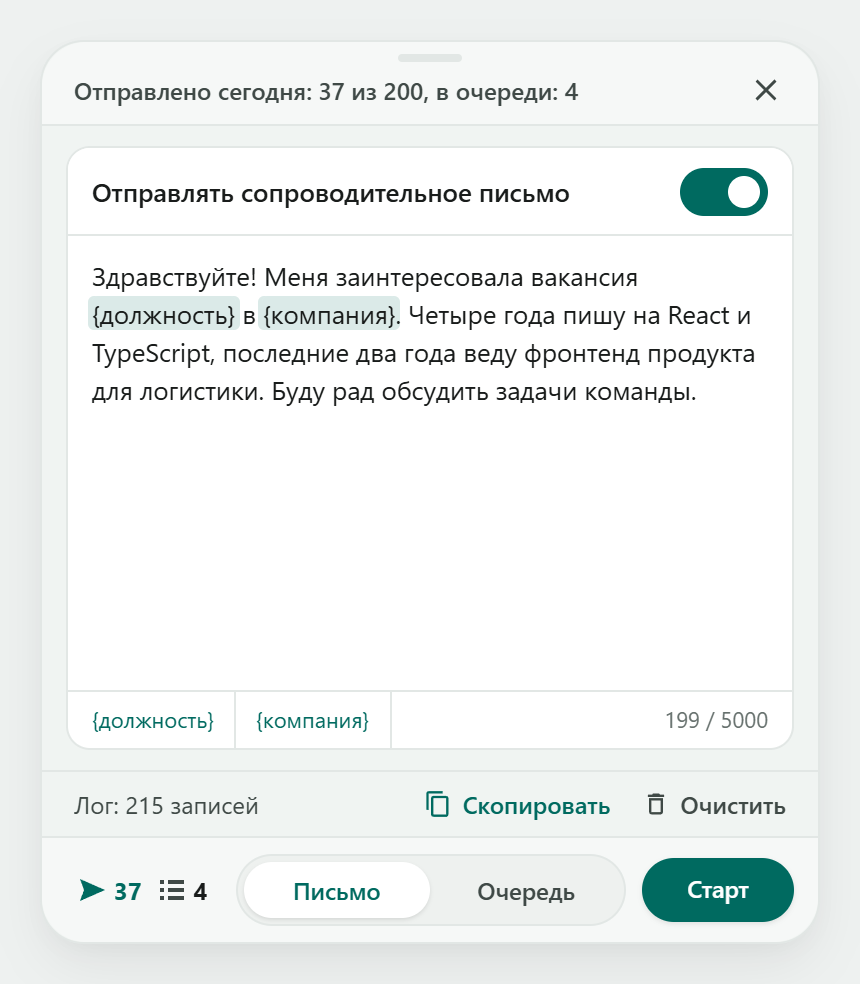
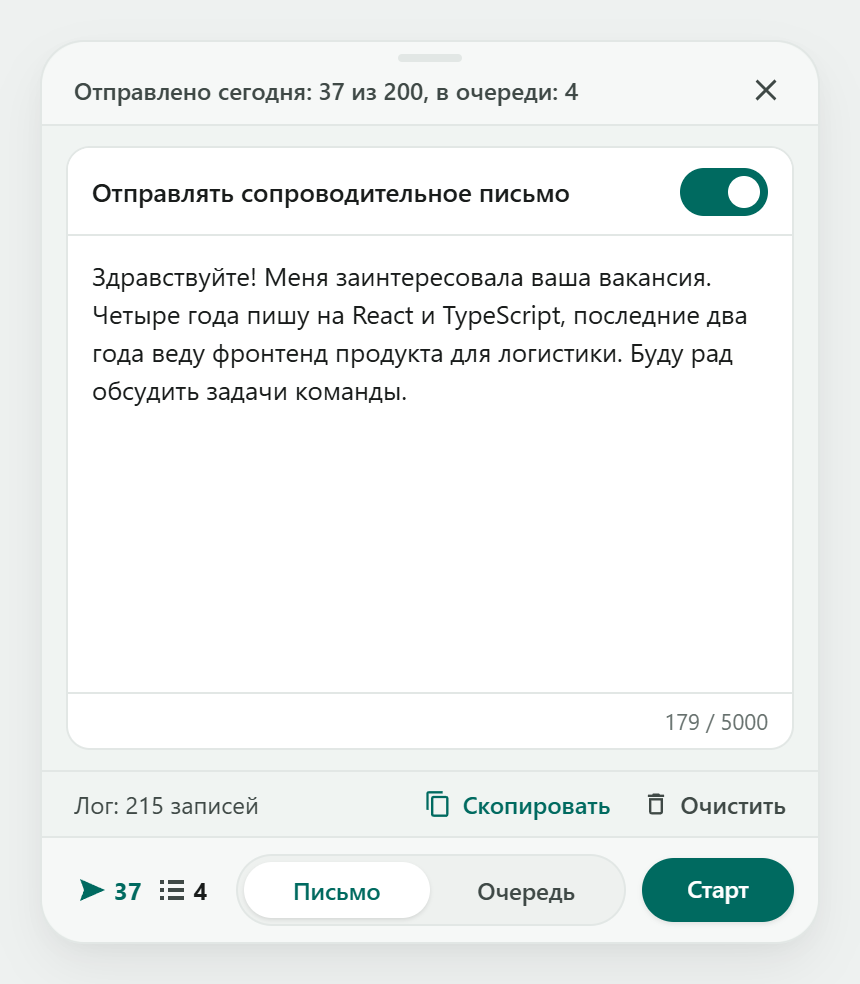
docs(readme): plain letter editor, current panel shots and the post-captcha letter warning

Changed region(s): [[0.0907, 0.2744, 0.8767, 0.4268], [0.0907, 0.7012, 0.907, 0.7622]]

diff --git a/README.md b/README.md
@@ -102,7 +102,7 @@ Chrome 137 и более ранние версии (версия видна на
    * вакансии открываются не строго сверху вниз: иногда сначала вторая или третья, а выдача перед этим прокручивается к карточке
    * после загрузки страницы скрипт ждёт 1-2.2 секунды, а не каждый раз ровно полторы
 
-   Без отдыха по откликам всё вместе медленнее ровного темпа примерно на пятую часть. С ним прогон идёт почти вдвое дольше: около 11 откликов за 8 минут вместо 4. Отдых нужен потому, что в октябре 2026 hh.ru стал показывать капчу примерно на каждом 15-м отклике подряд, а капча останавливает прогон, пока вы её не решите.
+   Без отдыха по откликам всё вместе медленнее ровного темпа примерно на пятую часть. С ним прогон идёт почти вдвое дольше: около 11 откликов за 8 минут вместо 4. Отдых добавлен после живых прогонов с частыми капчами. Он замедляет работу, но не гарантирует, что капч не будет. При капче скрипт останавливается, пока вы её не решите.
 
 <p align="center">
   <img src="docs/images/panel-running.png" width="430" alt="Раскрытая панель во время работы: в строке статуса пауза перед вакансией">
@@ -111,7 +111,7 @@ Chrome 137 и более ранние версии (версия видна на
 Скрипт остановится сам, если:
 * Вы нажали `Стоп`
 * Закончились вакансии в поиске
-* Вылезла капча (решите её руками, затем нажмите `Продолжить` в карточке ошибки). Если капча появилась на отправке отклика, hh.ru отправит его после решения: скрипт засчитает такой отклик, после `Продолжить` приложит к нему письмо и вернётся в ту же выдачу. После капчи 12 часов все паузы и перерывы в полтора раза длиннее, а перерывы чаще; после второй капчи за эти 12 часов вдвое. В логе это видно по `cooldown` в записи `start`
+* Вылезла капча (решите её руками, затем нажмите `Продолжить` в карточке ошибки). Если после решения капчи hh.ru подтвердит отклик, скрипт засчитает его один раз. После `Продолжить` он попробует приложить письмо и вернётся в ту же выдачу. Если кнопка прикрепления не найдена, в логе будет `letter_not_attached`; по этой записи нельзя установить, сохранил ли hh.ru первоначальное письмо. После капчи 12 часов все паузы и перерывы в полтора раза длиннее, а перерывы чаще; после второй капчи за эти 12 часов вдвое. В логе это видно по `cooldown` в записи `start`
 * Упёрлись в суточный лимит HeadHunter (до 200 откликов за 24 часа)
 * hh.ru отвечает ошибкой или ограничивает доступ (429, 503, "Доступ ограничен")
 * Страница зависла, и две перезагрузки подряд не помогли
@@ -125,24 +125,18 @@ Chrome 137 и более ранние версии (версия видна на
 
 ### Сопроводительное письмо
 По умолчанию отправка письма выключена.  
-Если нужно отправлять: кликните по виджету, чтобы открыть окно настроек, включите тумблер и напишите текст. Текст можно править и при выключенном тумблере, он сохраняется сам (под полем мелькнёт `Сохранено`), лимит 5000 символов. Пока тумблер выключен, текст показан бледным, а под полем написано `Не отправляется`. Шаблон один на все вакансии, хранится в браузере и не сбрасывается при перезагрузке.
+Если нужно отправлять: кликните по виджету, чтобы открыть окно настроек, включите тумблер и напишите текст. Текст можно править и при выключенном тумблере, он сохраняется сам (под полем мелькнёт `Сохранено`), лимит 5000 символов. Пока тумблер выключен, текст показан бледным, а под полем написано `Не отправляется`. Текст один на все вакансии, хранится в браузере и не сбрасывается при перезагрузке.
 
 Письмо не печатается по буквам, а вставляется целиком, как из буфера обмена: так делает почти любой, кто откликается с одним письмом. Перед вставкой и после неё скрипт ждёт пару секунд, будто перечитывает текст.
 
-Если после подстановки названий письмо стало длиннее 5000 символов, уходят первые 5000, а в логе появляется запись `letter_truncated`.
+Письмо отправляется обычным текстом, без подстановки названия вакансии или компании.
 
-Если hh.ru отправил отклик сразу, без поля для письма (так бывает, например, в окне выбора резюме), скрипт прикладывает письмо кнопкой `Приложить сопроводительное письмо`, которая появляется после отклика. Если такой кнопки нет, отклик остаётся без письма, а в логе появляется запись `letter_not_attached` с тем, что hh показал на странице.
+Если hh.ru отправил отклик сразу, без поля для письма (так бывает, например, в окне выбора резюме), скрипт попробует приложить письмо кнопкой `Приложить сопроводительное письмо`, которая появляется после отклика. Если кнопка не найдена, в логе появится `letter_not_attached` с тем, что hh показал на странице. После капчи такое предупреждение может быть ложным: hh.ru уже сохранил исходное письмо. Проверить его наличие можно в чате по вакансии.
 
-В текст можно вставить название вакансии и компании, тогда письмо будет выглядеть не как рассылка:
-* `{должность}` - название вакансии без города в конце: `Специалист чат-поддержки` вместо `Специалист чат-поддержки, г.Ставрополь`
-* `{компания}` - название работодателя без `ООО`, `АО`, `ИП` и других форм и без подразделения: `HeadHunter` вместо `ООО HeadHunter::Analytics/Data Science`, `Сбер` вместо `Сбер. Начало карьеры`
-
-Кнопки с этими словами под полем вставляют их туда, где стоит курсор, вставку отменяет <kbd>Ctrl</kbd>+<kbd>Z</kbd>, как обычный ввод. В тексте письма переменные подсвечены, а слово в скобках с опечаткой подсвечено красным. Если навести на кнопку, подсказка покажет, что подставится на последней открытой вакансии. Пример: `Здравствуйте! Меня заинтересовала вакансия {должность} в {компания}.`
-
-Если на странице вакансии нужного названия нет, отклик уйдёт без письма: письмо с пустым местом выглядит хуже, чем никакое (в логе будет запись `letter_skipped`). Чтобы письмо уходило всегда, допишите запасной текст после черты: `{компания|вашей компании}`. Слова в фигурных скобках, которых скрипт не знает (например, `{компанiя}` с опечаткой), уходят в письме как есть, а под полем появляется предупреждение.
+Если в сохранённом письме остались `{должность}`, `{компания}` или их варианты с запасным текстом из старой версии, при обновлении отправка письма выключится. Сам текст сохранится, а под полем появится `Проверьте текст письма`. Замените подстановки обычными словами и включите отправку заново. Для письма без таких подстановок ничего менять не нужно.
 
 <p align="center">
-  <img src="docs/images/panel-letter.png" width="430" alt="Вкладка Письмо: тумблер отправки, текст письма с переменными {должность} и {компания}, кнопки для их вставки и счётчик символов">
+  <img src="docs/images/panel-letter.png" width="430" alt="Вкладка Письмо: тумблер отправки, обычный текст письма и счётчик символов">
 </p>
 
 ### Какое резюме отправляется
@@ -191,7 +185,7 @@ Chrome 137 и более ранние версии (версия видна на
 * Если вылезает капча - скрипт сразу останавливается, чтобы вы решили её руками и запустили заново.
 * Есть защита от запуска в нескольких вкладках одновременно (Web Locks API и локальное хранилище).
 
-В моих тестах банов и капчи не было, но гарантий нет. Суточный лимит в 200 откликов - штатное ограничение hh. Если ваш профиль вам критически дорог - откликайтесь руками.
+На живых прогонах hh.ru показывал капчи, в том числе после длительного отдыха. Причину этих проверок скрипт установить не может. Суточный лимит в 200 откликов - штатное ограничение hh. Если ваш профиль вам критически дорог - откликайтесь руками.
 
 Скрипт не собирает метрику и никуда не отправляет ваши данные: настройки, текст письма, очередь и лог лежат только в браузере. Как это проверить - в разделе [Технические детали](#технические-детали).
 
